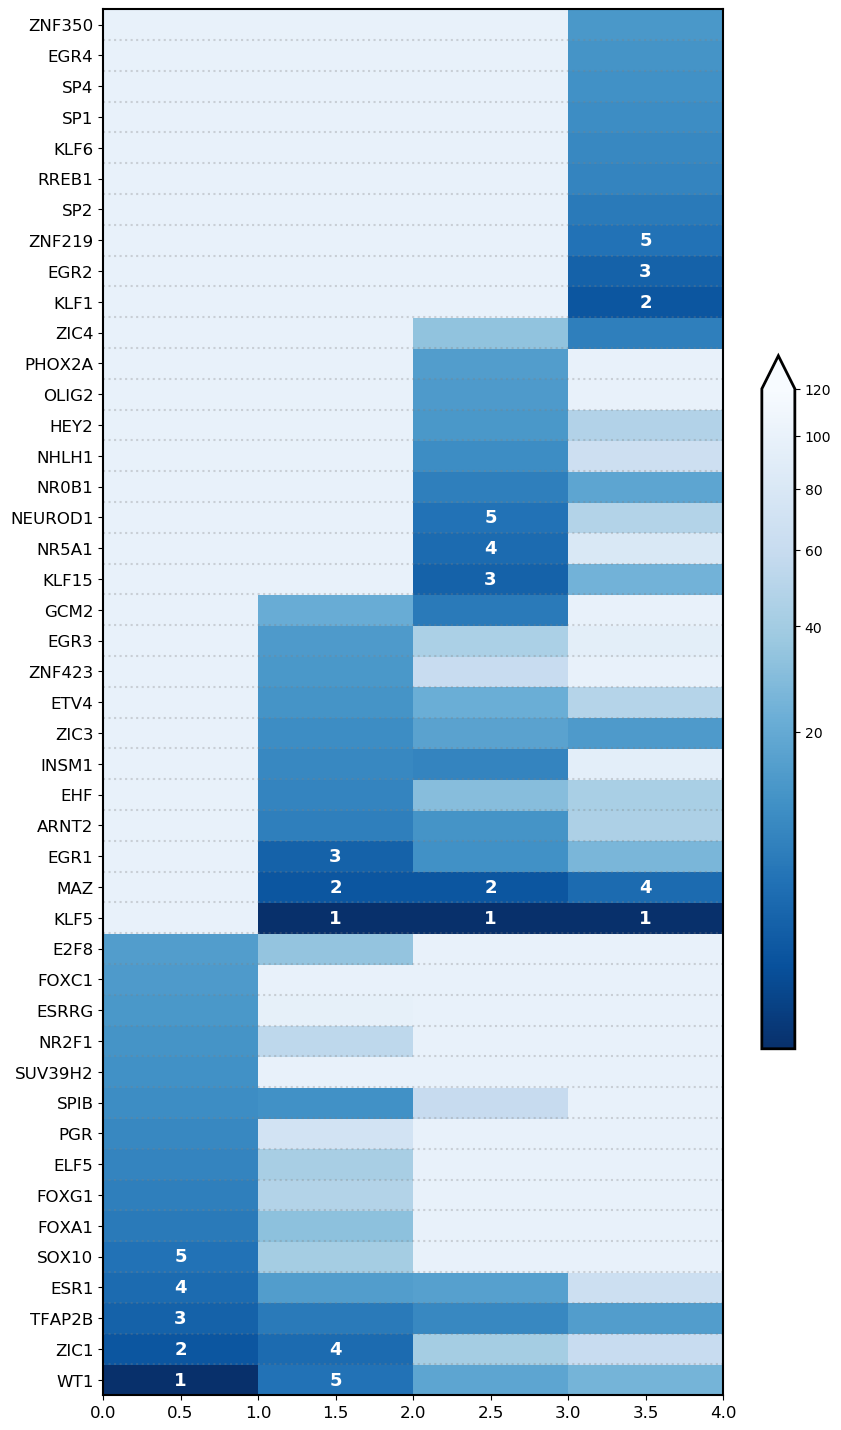
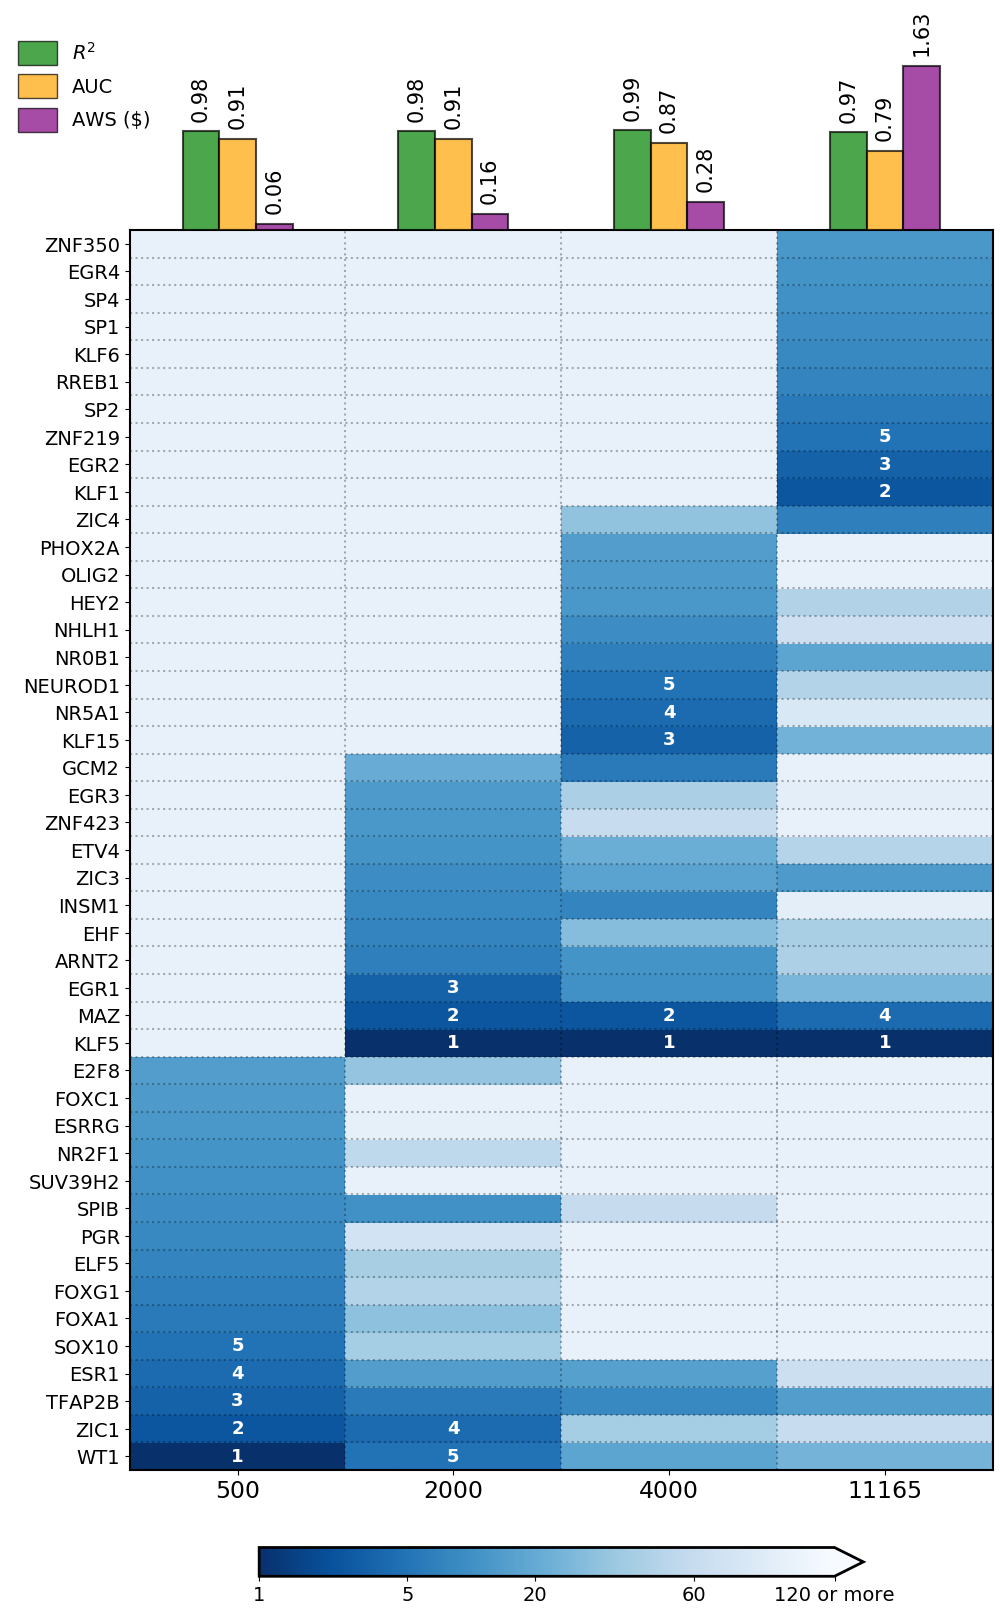
breast cancer plot updated

diff --git a/ode_net/code/fig_breast_cancer_res.py b/ode_net/code/fig_breast_cancer_res.py
@@ -33,32 +33,35 @@ if __name__ == "__main__":
     output_root_dir = '{}/{}/'.format("output", save_file_name)
     if not os.path.exists(output_root_dir):
         os.makedirs(output_root_dir, exist_ok=True)
-    
+
     neuron_dict = {"sim350": 40, "sim690": 50}
     #models = ["phoenix"]
     datasets = ["breast_cancer"]
-    
-    
+
+
     #Plotting setup
-    #plt.xticks(fontsize=10)
-    #plt.yticks(fontsize=10)
-    fig_breast_cancer = plt.figure(figsize=(10,18)) # tight_layout=True
-    axes_breast_cancer = fig_breast_cancer.subplots(ncols= 1, nrows=1, 
-    sharex=False, sharey=False, 
-    subplot_kw={'frameon':True})
-    #fig_breast_cancer.subplots_adjust(hspace=0, wspace=0)
+    fig_breast_cancer = plt.figure(figsize=(10,18), tight_layout=True)
+    gs = fig_breast_cancer.add_gridspec(10, 3, hspace = 0)
     border_width = 1.5
-    tick_lab_size = 12
+    tick_lab_size = 14
     ax_lab_size = 15
+    all_genes = [500, 2000, 4000, 11165]
     
+    print("......")
+
+    this_data = "breast_cancer"
+
+    ax = fig_breast_cancer.add_subplot(gs[1:10, :])
+    ax.spines['bottom'].set_linewidth(border_width)
+    ax.spines['left'].set_linewidth(border_width)
+    ax.spines['top'].set_linewidth(border_width)
+    ax.spines['right'].set_linewidth(border_width)
+    ax.cla()
+    ax.set_xlim(0,4)
+
+    print("making heatmap")
     z = np.loadtxt(open("C:/STUDIES/RESEARCH/neural_ODE/all_manuscript_models/breast_cancer/all_harm_cent_wide.csv", "rb"), 
-                    dtype = "str",delimiter=",", skiprows=1, usecols = (1,2,3,4))
-
-    gene_names = np.loadtxt(open("C:/STUDIES/RESEARCH/neural_ODE/all_manuscript_models/breast_cancer/all_harm_cent_wide.csv", "rb"), 
-                    dtype = "str",delimiter=",", skiprows=1, usecols = (0))
-
-    gene_names = np.char.strip(gene_names, '"')
-
+        dtype = "str",delimiter=",", skiprows=1, usecols = (1,2,3,4))
     num_tops = z.shape[0]
     print("The analysis contains", num_tops, "genes.")
     num_models = z.shape[1]
@@ -66,64 +69,103 @@ if __name__ == "__main__":
     z = z.astype(float)
     z[ z == 0] = np.nanmax(z)
     z = z.transpose()
-    y, x = np.meshgrid(np.linspace(0, num_tops, num_tops), np.linspace(0, num_models+1, num_models+1))
-                
-    plt.grid(True)
+    ind = np.arange(num_models) +0.5
     
-    print("......")
-    
-    for this_data in datasets:
-        #this_data_handler = datahandler_dict[this_data]
-                
-        ax = axes_breast_cancer#[row_num]
-        ax.spines['bottom'].set_linewidth(border_width)
-        ax.spines['left'].set_linewidth(border_width)
-        ax.spines['top'].set_linewidth(border_width)
-        ax.spines['right'].set_linewidth(border_width)
-        ax.cla()
+    gene_names = np.loadtxt(open("C:/STUDIES/RESEARCH/neural_ODE/all_manuscript_models/breast_cancer/all_harm_cent_wide.csv", "rb"), 
+        dtype = "str",delimiter=",", skiprows=1, usecols = (0))
+    gene_names = np.char.strip(gene_names, '"')
 
-        
-        
-        z_min, z_max = np.nanmin(z), np.nanmax(z)
-        c = ax.pcolormesh(z.transpose(), cmap='Blues_r', vmin=z_min, vmax=120, 
-                            norm = colors.PowerNorm(gamma = 0.4),
-                            shading = "nearest") 
-        #ax.axis([x.min(), x.max(), y.min(), y.max()]) 
-        
-        fig_breast_cancer.canvas.draw()
-        #labels_y = [item.get_text() for item in ax.get_yticklabels()]
-        #labels_x = [item.get_text() for item in ax.get_xticklabels()]
-        
-        ax.set_yticks(np.arange(num_tops)+0.5)    
-        ax.set_yticklabels(gene_names)
-        ax.tick_params(axis='x', labelsize= tick_lab_size)
-        ax.tick_params(axis='y', labelsize= tick_lab_size)
-        
-        for idx in range(num_tops):
-            plt.axhline(y=idx, xmin=0, xmax=4, linestyle='dotted', color = "gray", alpha = 0.3)
+    z_min, z_max = np.nanmin(z), np.nanmax(z)
+    c = ax.pcolormesh(z.transpose(), cmap='Blues_r', vmin=z_min, vmax=120, 
+            norm = colors.PowerNorm(gamma = 0.4),
+            shading = "nearest") 
+    #ax.axis([x.min(), x.max(), y.min(), y.max()]) 
 
-        for i in range(num_tops):
-            for j in range(num_models):
-                if z[j,i] <= 5:
-                    text = ax.text(j + 0.5, i + 0.5, int(z[j, i]),
-                                ha="center", va="center", color="w",
-                                size = 13, weight = "bold")
-                
-        #if row_num == 0:
-        #    ax.set_title(model_labels[this_model], fontsize=ax_lab_size, pad = 10)
-        #if col_num == 0:
-        #    ax.set_ylabel("Noise level = {:.0%}".format(this_noise/0.5), fontsize = ax_lab_size) 
+    #fig_breast_cancer.canvas.draw()
+    #labels_y = [item.get_text() for item in ax.get_yticklabels()]
+    #labels_x = [item.get_text() for item in ax.get_xticklabels()]
 
-                 
-    cbar =  fig_breast_cancer.colorbar(c, ax=axes_breast_cancer, 
-                                        shrink=0.5, orientation = "vertical", pad = 0.05,
-                                        extend = "max")
-    #cbar.set_ticks([0, 0.03, -0.03])
-    #cbar.set_ticklabels(['None', 'Activating', 'Repressive'])
-    #cbar.ax.tick_params(labelsize = tick_lab_size+3) 
+    ax.set_yticks(np.arange(num_tops)+0.5)    
+    ax.set_yticklabels(gene_names)
+    ax.tick_params(axis='y', labelsize= tick_lab_size)
+
+    for idx in range(num_tops):
+        ax.axhline(y=idx, xmin=0, xmax=num_models, linestyle='dotted', color = "black", alpha = 0.3)
+
+    for idx in range(num_models):
+        ax.axvline(x=idx, ymin=0, ymax=num_tops, linestyle='dotted', color = "black", alpha = 0.3)    
+
+    for i in range(num_tops):
+        for j in range(num_models):
+            if z[j,i] <= 5:
+                text = ax.text(j + 0.5, i + 0.5, int(z[j, i]),
+                            ha="center", va="center", color="w",
+                            size = 13, weight = "bold")
+
+    cbar =  fig_breast_cancer.colorbar(c, ax=ax, 
+                            shrink=0.7, orientation = "horizontal", pad = 0.05,
+                            extend = "max")
+    cbar.set_ticks([1, 5, 20, 60, 120])
+    cbar.set_ticklabels(['1', '5', '20', '60', '120 or more'])
+    cbar.ax.tick_params(labelsize = tick_lab_size) 
     #cbar.set_label(r'$\widetilde{D_{ij}}$= '+'Estimated effect of '+ r'$g_j$'+ ' on ' +r"$\frac{dg_i}{dt}$" +' in SIM350', size = ax_lab_size)
     cbar.outline.set_linewidth(2)
 
+    print("......")
+    print("overlaying performance metrics")
+    ax1 = fig_breast_cancer.add_subplot(gs[0, :], sharex = ax)
+    #ax1.spines['bottom'].set_linewidth(border_width)
+    #ax1.spines['left'].set_linewidth(border_width)
+    #ax1.spines['top'].set_linewidth(border_width)
+    #ax1.spines['right'].set_linewidth(border_width)
+    ax1.set_frame_on(False)
+    ax1.axes.get_xaxis().set_visible(False)
+    ax1.axes.get_yaxis().set_visible(False)
+    ax1.cla()
+    
+    perf_info = {}
+    metrics = ['var_explained', 'AUC','runtime_cost' ]
+    metric_cols = {'var_explained': 'green', 'AUC': 'orange','runtime_cost':'purple' }
+    metric_labels = {'var_explained': r'$R^2$', 'AUC': 'AUC','runtime_cost':'AWS ($)' }
+
+    leg_general_info = [Patch(facecolor=metric_cols[this_metric], edgecolor= "black", 
+                            alpha = 0.7, label= metric_labels[this_metric]) for this_metric in metrics]
+
+    for this_gene in all_genes:
+        if this_gene not in perf_info:
+            perf_info[this_gene] = {this_metric: 0 for this_metric in metrics}
+
+    perf_csv = csv.DictReader(open('C:/STUDIES/RESEARCH/neural_ODE/all_manuscript_models/breast_cancer/bc_model_perfs.csv', 'r'))
+    for line in perf_csv: 
+        for this_metric in metrics:
+            perf_info[float(line['num_gene'])][this_metric] = float(line[this_metric])
+
+    print(perf_info)
+
+    width= 0.17  # the width of the bars
+    deltas = [-1, 0, 1]
+    
+    for this_metric in metrics:
+        this_delta = deltas[metrics.index(this_metric)] 
+        this_perf_vals = [perf_info[this_gene][this_metric] for this_gene in all_genes]
+        ax1.bar(ind  + width*this_delta, this_perf_vals, width = width, 
+                        capsize = 5, color = metric_cols[this_metric], alpha = 0.7,  edgecolor = "black", 
+                        linewidth = 1.5, align = 'center')
+        
+    for this_metric in metrics:
+        this_delta = deltas[metrics.index(this_metric)] 
+        this_perf_vals = [perf_info[this_gene][this_metric] for this_gene in all_genes]
+        for this_idx in range(len(this_perf_vals)):
+            this_val = this_perf_vals[this_idx]
+            ax1.text(this_idx + 0.5 + width*this_delta, this_val + 0.1 , this_val, 
+                     ha="center", va="bottom", color="black",size = 15, rotation = 90)
+    
+    ax1.legend(handles = leg_general_info, loc='upper left', prop={'size': tick_lab_size}, 
+                        ncol = 1,  handleheight=1.5, frameon = False, bbox_to_anchor = (-0.15,1.2))
+
+    
+    ax.set_xticks(ind)    
+    ax.set_xticklabels(all_genes)
+    ax.tick_params(axis='x', labelsize= tick_lab_size + 3)
     
     fig_breast_cancer.savefig('{}/manuscript_fig_breast_cancer.png'.format(output_root_dir), bbox_inches='tight')
-    
